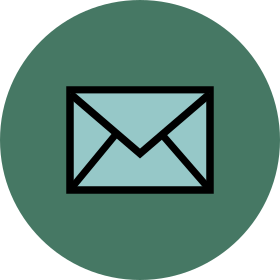
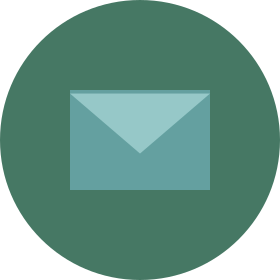
changed up bg and buttons.
still need to fix up “home selected” and “play selected”

Changed region(s): [[0.2286, 0.2857, 0.7714, 0.7143]]

diff --git a/src/credits.js b/src/credits.js
@@ -72,7 +72,7 @@ var CreditsLayer = cc.Layer.extend({
             res.MailButtonPressed_png,
             function(){
                 cc.log("mail button pressed");
-                window.location.href = 'mailto:ymotqy@hotmail.com';
+                //window.location.href = 'mailto:ymotqy@hotmail.com';
             },this);
 
         MailButton.attr({

diff --git a/src/resource.js b/src/resource.js
@@ -112,7 +112,7 @@ else if (missselect == 2){
 var res = {
 
 	//Background image
-    Background_png : "res/goodresbackground.png",
+    Background_png : "res/background/shadedbackground.png",
 
     //for temporary testing
     //CloseNormal_png : "res/CloseNormal.png",
